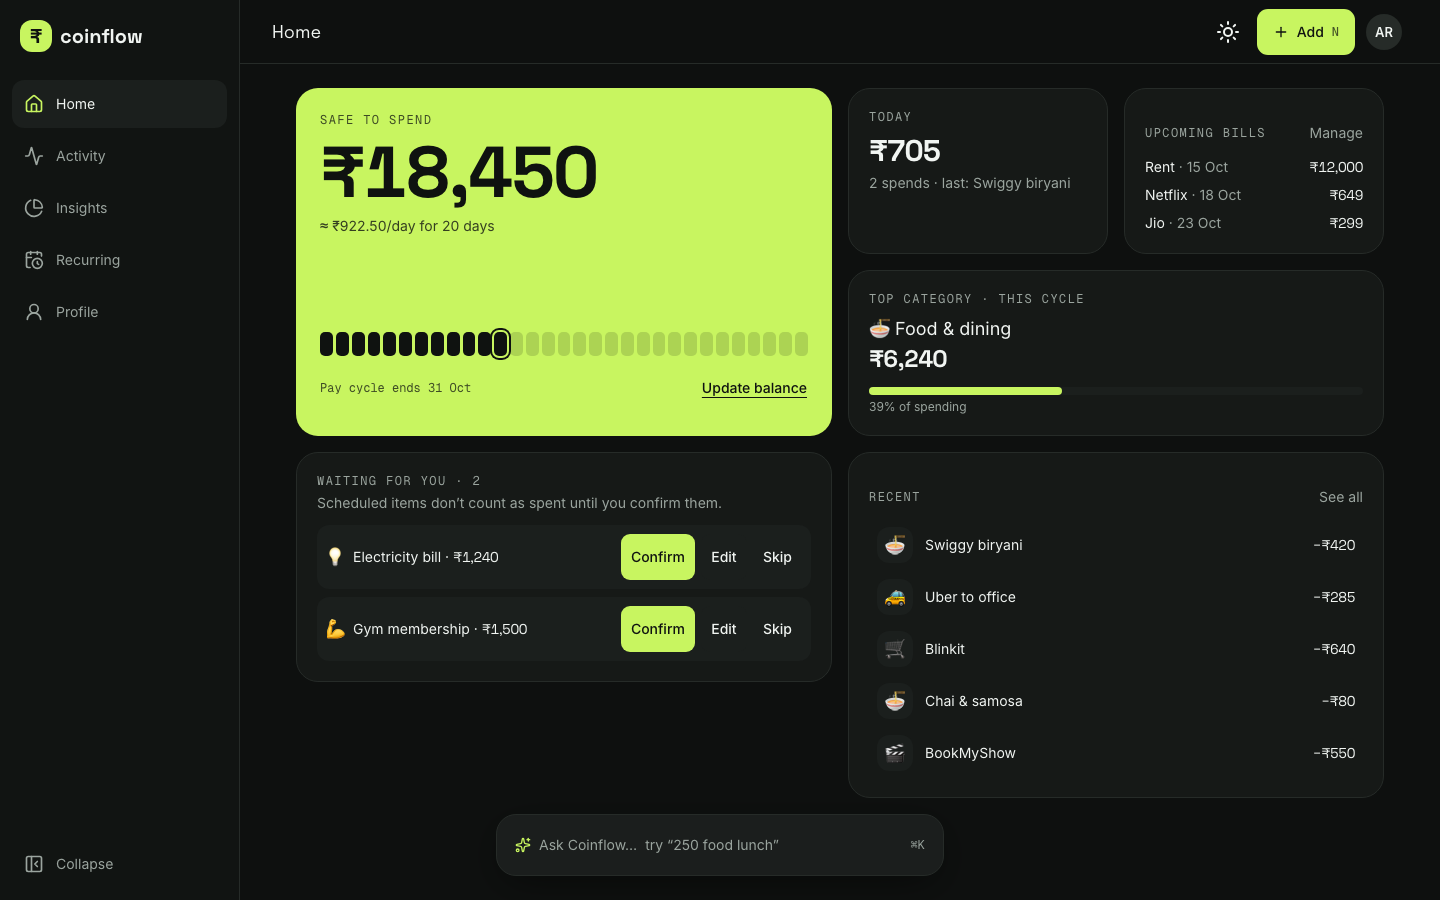
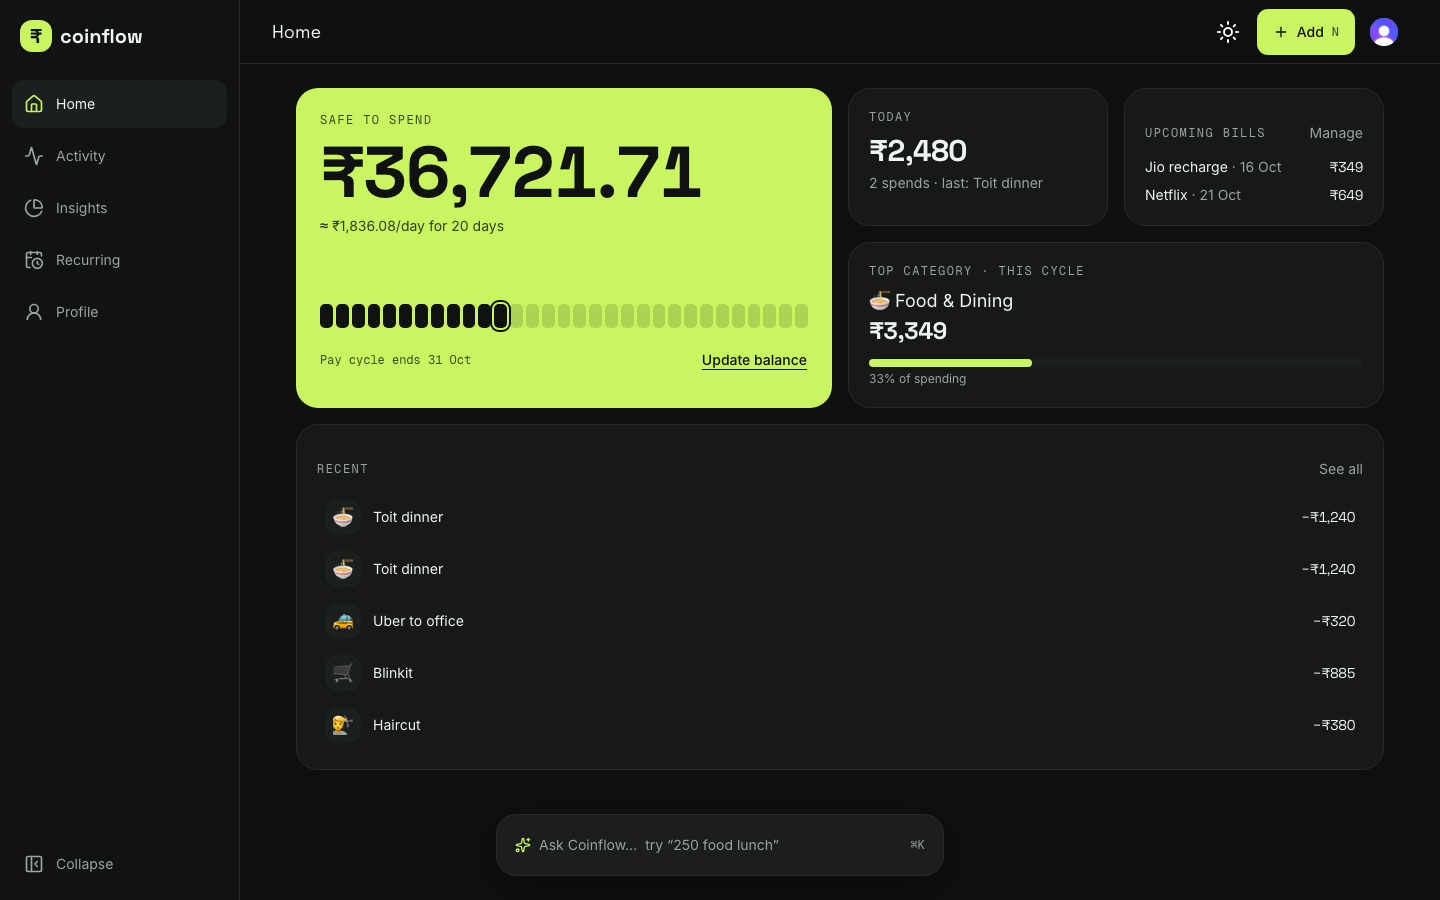
chore(landing): recapture product shot from demo user

diff --git a/apps/web/src/components/landing/hero.tsx b/apps/web/src/components/landing/hero.tsx
@@ -6,7 +6,7 @@ import { SplitHeading } from '@/components/fx/split-heading'
 import { Safari } from '@/components/ui/safari'
 
 // Keep in sync with the screenshot: update after running `pnpm shot:landing` against the real demo user.
-const SHOT_ALT = 'Coinflow Home screen: Safe to spend ₹18,450, three upcoming bills and recent spends.'
+const SHOT_ALT = 'Coinflow Home screen: Safe to spend ₹36,721.71, two upcoming bills, today’s spending, top category Food & Dining and recent spends.'
 
 /** `cta` is a server-rendered slot (Clerk `Show` picks Start free / Open Coinflow) so it is in the first HTML. */
 export function Hero({ cta }: { cta: React.ReactNode }) {
